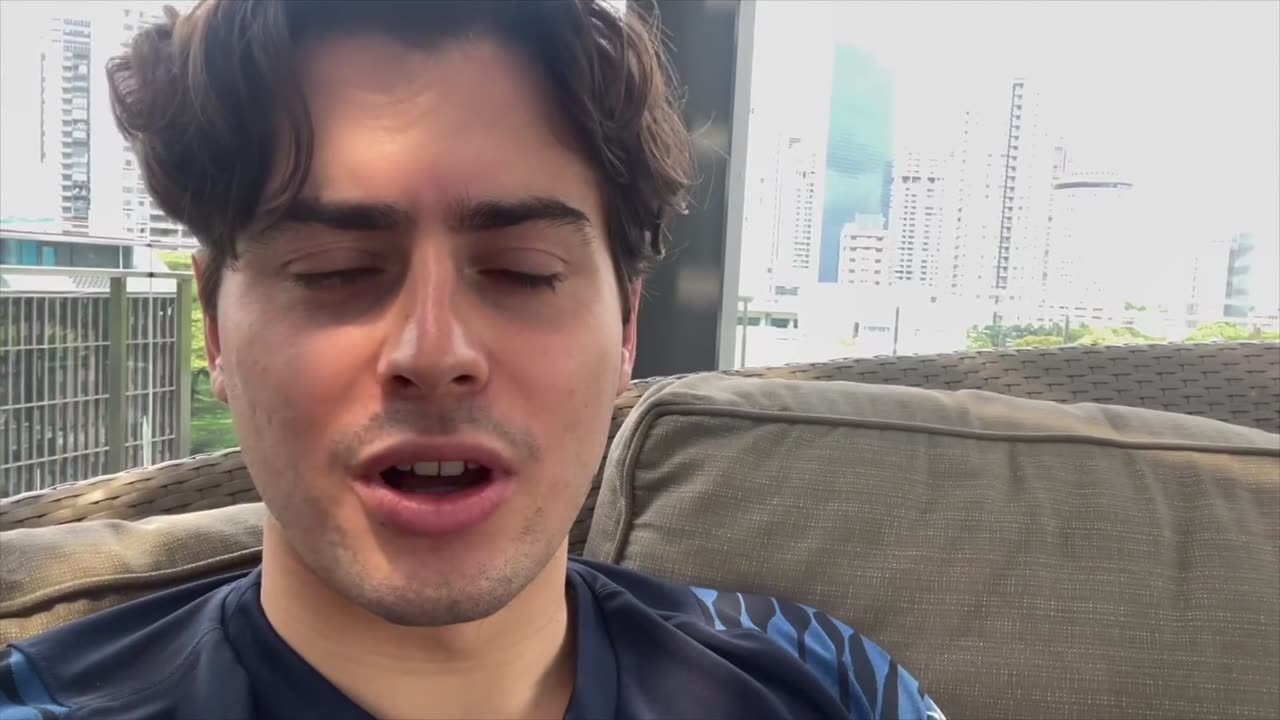
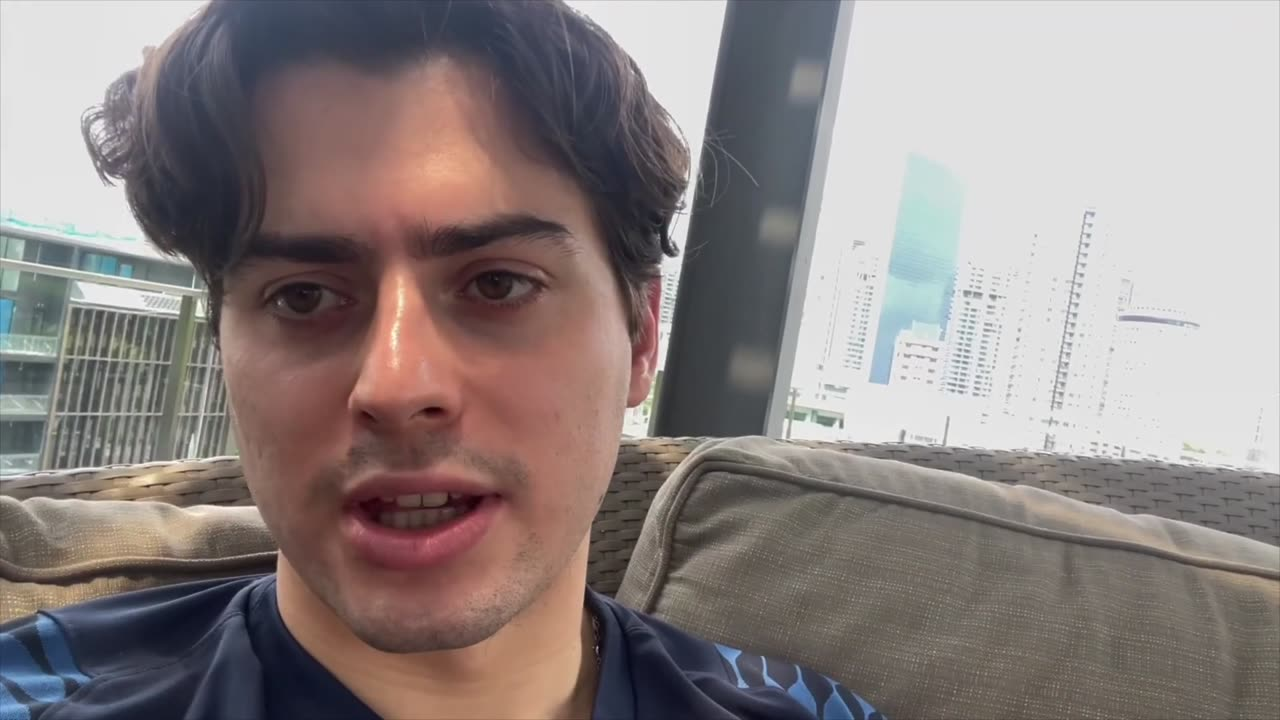
Better LoudLion poster frame

diff --git a/goflow/index.html b/goflow/index.html
@@ -234,7 +234,7 @@ h2{font-size:clamp(34px,4.4vw,64px);max-width:1100px}
       <div class="quote">"I've been working with James &amp; IndivMedia for a year now. They basically built the agency we have today. The attention to detail was so much more than what you'd normally get."<cite>Oli, LoudLion</cite></div>
     </div>
     <div class="vid">
-      <video controls playsinline preload="metadata" poster="loudlion-poster.jpg"><source src="loudlion.mp4" type="video/mp4">Your browser does not support video. <a href="loudlion.mp4">Watch the case study</a>.</video>
+      <video controls playsinline preload="metadata" poster="loudlion-poster.jpg?v=2"><source src="loudlion.mp4" type="video/mp4">Your browser does not support video. <a href="loudlion.mp4">Watch the case study</a>.</video>
       <a class="watch" href="loudlion.mp4" target="_blank" rel="noopener">&#9654; Watch the case study</a>
     </div>
   </div>
